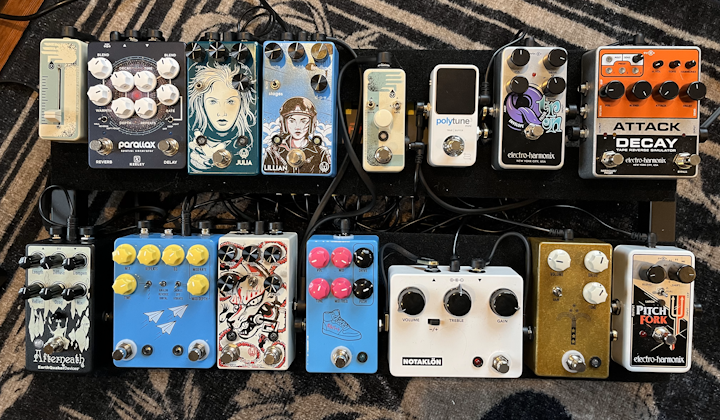
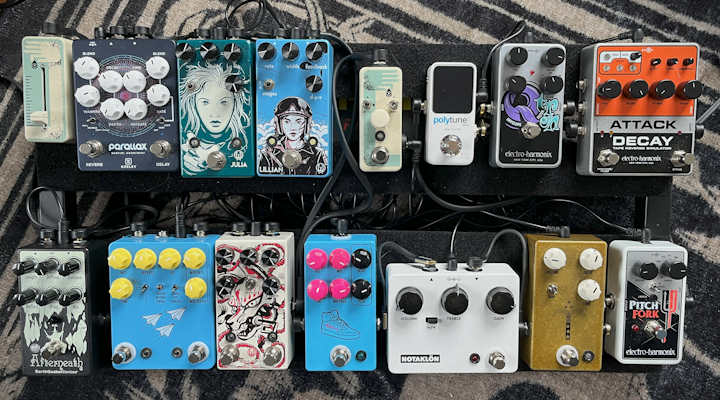
Refine pedalboard v3 article

diff --git a/_drafts/2025-01-31-Pedalboard-Version-3.md b/_drafts/2025-01-31-Pedalboard-Version-3.md
@@ -36,76 +36,78 @@ h2 {
 </style>
 [![Pedalboard version 3](/media/posts/thumbnails/pedalboard-v3.png)](/media/posts/pedalboard-v3.png)
 
-My guitar pedalboard has evolved from its [last iteration]({% post_url /2024-08-08-Pedalboard-Version-2 %}), and after many months of the same configuration I think I can safely call this "version 3." Why change it all? Well, there were two primary instigating events:
-
-- My daughter built the JHS Notaklon and I needed to find space for that on the board. It's a wider pedal, and fitting it in forced multiple spatial changes. But also adding another "dirt" pedal made me question what I already had.
-- While in Greece I acquired a bouzouki, an 8 string acoustic instrument. I wanted a way to incorporate that into my looping/recording rig, and to do that I needed a better setup for capturing instruments with a microphone, and that meant adding a microphone preamp to the board.
-
-These challenges forced me to look at how to rearrange the board, but as I did there were more opportunities to optimize and refine.
+My guitar pedalboard has continued to evolve from its [last iteration]({% post_url /2024-08-08-Pedalboard-Version-2 %}), and after many stable months of the same configuration I'm calling this "version 3." Why change it at all? Two instigating events:
 <!--more-->
+
+- My daughter built the [JHS Notaklon](https://youtu.be/LJGos1D1ha8?si=U-NcZMsDZCWp2nDp) and I needed to find space to fit it in. But also adding another "dirt" pedal made me question what I already had.
+- While in Greece I acquired a [tetrachordo bouzouki](https://en.wikipedia.org/wiki/Bouzouki), an 8 string acoustic instrument. I wanted to incorporate that into my looping/recording rig, and to do that I needed a setup for capturing instruments with a microphone.
+
+These challenges forced me to rearrange, but as I did I discovered opportunities to optimize and refine.
 
 ### Microphone as an input
 
-While mostly this is a guitar pedalboard… it's not only useful for guitars. For example I can plug a keyboard into it and add reverb or delay or any effect I like to that keyboard sound. But not every instrument has a 1/4" output. Some acoustic guitars have pickups built in and a 1/4" jack, but not all, and even still sometimes putting a microphone up to it is the best way to capture the instrument's sound. My new bouzouki certainly has no built-in hardware. I'm also experimenting with other instruments, like the trumpet. So I need a way to capture instruments via my good ole [SM57](https://reverb.com/p/shure-sm57) microphone and put them through my pedalboard. For the difference in cabling (XLR vs. 1/4") and signal compatibility I needed a microphone preamp.
+While this was built to be a guitar pedalboard… it has potential for more. For example I can plug a keyboard into it and add reverb or delay or any effect I like. But not every instrument has a 1/4" output. Some acoustic guitars have pickups built in and a 1/4" jack, but not all, and even still putting a microphone up to it is the best way to capture the instrument's sound. My new bouzouki certainly has no built-in hardware. I'm also experimenting with other instruments, like the trumpet. So I need a way to capture instruments via my good ole [SM57](https://reverb.com/p/shure-sm57) microphone and put them through the pedalboard. For the difference in cabling (XLR vs. 1/4") and [signal compatibility](https://www.sweetwater.com/insync/understanding-signal-levels-audio-gear/) I needed a microphone preamp.
 
 ### The dirt section
 
-Looking at my previous layout I had too many "dirt" pedals (overdrive/distortion): Morning Glory, Triumph, PG-14, DS-1. I wasn't finding enough distinction between these to justify that many slots. So I picked my favorite 2 (the Morning Glory and PG-14) to stay… and then added in the Notaklon. These 3 together give me a range where I do find myself using all of them. The Morning Glory is almost always on. The Notaklon gives me a great sharp lead tone (and stacks well with the Morning Glory). The PG-14 is flexible and gets used for heavier distortion and sputtery tones.
+Looking at my previous layout I had too many "dirt" pedals (overdrive/distortion): Morning Glory, Triumph, PG-14, and DS-1. I wasn't finding enough distinction between these 4 to justify so many slots. I picked my favorite 2 to stay (the Morning Glory and PG-14)… and then added in the Notaklon. These 3 together give me a range where I do find myself using all of them. The Morning Glory is the most subtle and almost always on. The Notaklon gives me a great sharp lead tone (and stacks well with the Morning Glory). The PG-14 is flexible and gets used for heavier distortion and sputtery tones.
 
 ### Looper as an output
 
-One of the most essential pedals of my board is my looper. My regular practice is all about looping layers over each other. But the looper isn't part of my sound… it's a utility that receives the output of my sound at the end of the chain. Mentally, it's different. So I had the idea to move it off the board and be its own thing.
+One of my most essential pedals is the looper, which allows me to layer my past self beneath my current self. But the looper isn't part of my sound, it's merely a utility that receives the output of my sound at the end of the chain. Mentally, it's different. So I had the idea to move it off the board and be its own thing.
 
-Enter the "baby board," a tiny [Pedaltrain Nano](https://pedaltrain.com/collections/nano/products/pt-nano-sc) (with a [power supply](https://truetone.com/cs6/) underneath). This allowed me to group some utilities at the end of the chain and create something amazingly useful. It has the looper, an EQ, and an amp sim. When months later I went to go shop for a guitar I took this board into the store and had everything I needed to test instruments with a familiar setup and headphone output.
+Enter the "baby board," a [Pedaltrain Nano](https://pedaltrain.com/collections/nano/products/pt-nano-sc) (with a [power supply](https://truetone.com/cs6/) underneath). This allowed me to group some utilities at the end of the chain. It has the looper, an EQ, and an amp sim. When months later I went to go shop for a guitar I took the baby board into the store and had everything I needed to test instruments with headhpones on a familiar setup.
 
 Did I cheat and solve my pedalboard space problem by adding a second board? Yes. But in doing so I stumbled into something I've found both more organized and more independently useful.
 
 [![The baby board](/media/posts/thumbnails/pedalboard-v3-babyboard.png)](/media/posts/pedalboard-v3-babyboard.png)
 
+Now let's go into detail on each of the pedals new to version 3.
+
 ## [Art Tube MP Studio V3](https://reverb.com/p/art-tube-mp-studio-v3-tube-microphone-preamp-2010-2023)
 <img src="/media/posts/pedalboard-v3-mpstudio.png" class="left"/>
-Without a microphone preamp if you plug a microphone into a guitar rig the levels are going to be all off. So the internet tells me. There are fancy (expensive) options for this, but I opted for something not fancy (relatively inexpensive). It works well enough, with some knobs to adjust the signal I'm getting in. This pedal actually currently lives off the main pedalboard all on its own. So I have 3 sections in the chain: **inputs** (which has this mic preamp), **sounds** (the main pedalboard), and **outputs** (the looper and utilities).
+Without a microphone preamp if you plug a microphone into a guitar rig the levels are going to be way too low. It's easy to use a microphone independently (into a mixing board or straight into a powered speaker), but my goal was to enable the live pedalboard effects for microphone input too. I opted for a reasonable used microhpone preamp. It works well enough, with some knobs to adjust the input signal. This pedal currently lives off the main pedalboard all on its own. So I have 3 sections in the chain that match my mental categorization: **inputs** (which has this mic preamp), **sounds** (the main pedalboard), and **outputs** (the looper and utilities).
 
 ## [JHS Mini A/B Switch](https://reverb.com/p/jhs-mini-a-slash-b-switch)
 <img src="/media/posts/pedalboard-v3-abswitch.png" class="right"/>
-The goal of this board is to enable me to be creative. When I have to bend down and fiddle with some cables, unplugging one and plugging another in… that's getting in the way of being creative. I want swapping the input from one instrument to another to be immediate. Enter the A/B switch. This is currently set up to toggle between the direct instrument line in and the output of the microphone preamp. So with a quick tap I can switch between the Stratocaster and the bouzouki, or between a keyboard and a trumpet.
+The goal of the board is to enable me to be creative in real time. When I have to bend down and fiddle with some cables, unplugging one and plugging another in… that gets in the way of being present. I want swapping the input from one instrument to another to be immediate. Enter the A/B switch. I have this set up to toggle between the direct instrument line in and the output of the microphone preamp. So with a quick tap I can switch between the Stratocaster and the bouzouki, or between a keyboard and a trumpet.
 
 ## [JHS NOTAKLÖN](https://reverb.com/p/jhs-notaklon)
 <img src="/media/posts/pedalboard-v3-notaklon.png" class="left"/>
-The [pitch video](https://youtu.be/LJGos1D1ha8?si=U-NcZMsDZCWp2nDp) for this absolutely stole my heart. So I was among the wave of tens of thousands who immediately ordered the kit. I put it in front of my tween daughter, and she built me a guitar pedal. Which is magic.
+The [pitch video](https://youtu.be/LJGos1D1ha8?si=U-NcZMsDZCWp2nDp) for this DIY kit absolutely stole my heart. So I was among the initial wave of tens of thousands who flooded orders. I put it in front of my tween daughter, and she built me a guitar pedal. Which was a magic experience and I will always treasure this pedal.
 
-Do I like the sound of the pedal? Absolutely I do. The Notaklon gives me a nice dirty overdrive that cuts through with a warm crunchy sound. It stacks nicely with the Morning Glory if I want something even dirtier.
+Do I like the sound of the pedal? Absolutely I do. The Notaklon gives me a nice dirty overdrive that cuts through with a warm crunch. It stacks nicely with the Morning Glory if I want something even dirtier.
 
 ## [Stymon Iridium](https://reverb.com/p/strymon-iridium)
 <img src="/media/posts/pedalboard-v3-iridium.png" class="right"/>
-I'd had my eye on the Iridium for a while, waiting for the right price on [reverb](https://reverb.com). This pedal is an "amp sim," which is to say it emulates the sonic qualities of various amps in one tiny box. You can get the behavior you want (Fender, Vox, Marshal, or otherwise) at the volume you want and in a travel friendly format. This lives alongside my looper on the "baby board," as it's part of my output section.
+I'd had my eye on the Iridium for a while, waiting for the right price on [reverb](https://reverb.com/p/strymon-iridium). This pedal is an "amp sim," which is to say it emulates the sonic qualities of various amps in one tiny box. You can get the response you want (Fender, Vox, Marshal, or otherwise) at the volume you want and in a travel friendly format. This lives alongside my looper on the "baby board," as it's part of my output section.
 
-I'm underutilizing it. The main speaker I have in my practice space is an amp (a [Vox Mini Superbeetle](https://reverb.com/p/vox-msb25-mini-superbeetle-25-watt-1x10-mini-guitar-amp-stack)). And running an amp sim into an amp is… double dipping. I need a more neutral output for this to do the right thing, and I haven't set that up yet. However when I use this straight into my recording rig, or use it with headphones, it does what I need.
+I feel like I'm underutilizing it. The main speaker I have in my practice space is an amp (a [Vox Mini Superbeetle](https://reverb.com/p/vox-msb25-mini-superbeetle-25-watt-1x10-mini-guitar-amp-stack)), and running an amp sim into an amp is sonic double dipping. I'd rather pair with a more neutral output, but my practice space hasn't otherwise warranted a PA system or monitors. However when I use the Iridium straight into my recording mixer or use it with headphones, everything's great.
 
 ## [Boss FS-7 Footswitch](https://reverb.com/p/boss-fs-7-footswitch)
 <img src="/media/posts/pedalboard-v3-footswitch.png" class="left"/>
-My 2 button rhythm looper is one of my most essential pieces of gear. It's so essential that there some common functions that I use that could benefit from their own button. Thankfully it can be extended and customized with an external foot switch. So what do I use these 2 extra buttons for:
-- **Tap tempo**: I can change the BPM of any of the tracks with the dial on the main looper. Which is precise but fiddly and hard to "feel." But with this footswitch I can mash the button to the beat I want and get it much faster and without bending over.
+My 2 button rhythm looper is so heavily used by me that I've felt some common functions could benefit from a dedicated button. Thankfully it can be extended and customized with an external foot switch. I use these 2 extra buttons for:
+- **Tap tempo**: I can change the BPM with the main dial on the looper, which is precise but fiddly. With this footswitch I can mash the added button to get the time set fast and without bending over.
 - **Undo/Redo**: Technically I can do a long press on one of the existing buttons to undo the last layer I recorded. But this is a common enough action that I prefer having its own button.
 
 ## [JHS Flight Delay](https://reverb.com/p/jhs-flight-delay)
 <img src="/media/posts/pedalboard-v3-flightdelay.png" class="right"/>
-JHS made a [great video](https://www.youtube.com/watch?v=Pm3TzgxwAFU) to launch this pedal in late 2024. And while I had delay effects through my Parallax, there were some quality of life improvements I was seeking. Tap tempo is the most important one, as I have discovered that getting a delay timing dialed in with a knob is not fun. Tapping in that in with a foot switch is much more immediate and more accurate for my usage, plus there's a knob to choose various subdivisions. In fact a lot of what drew me to this pedal was the user interface; the way the functions are divided up between the switches and knobs is incredibly intuitive. Mostly the only thing this pedal gave me I didn't have was tap tempo and reverse delay, but the way it's packaged together has me feeling more in control of my delay effects.
+JHS made a [great video](https://www.youtube.com/watch?v=Pm3TzgxwAFU) to launch this pedal in late 2024. I've had delay effects through my Parallax, but there were some quality of life improvements I was seeking. Tap tempo is the most important one, as I have discovered that getting a delay timing dialed in with a knob is not fun. Tapping in with a foot switch is much more immediate and more accurate for my usage, plus there's a knob to choose standard subdivisions. In fact a lot of what drew me to this pedal was the user interface; the way the functions are divided up between the switches and knobs is intuitive. Mostly the only thing this pedal gave me I didn't have was tap tempo and reverse delay, but the way it's packaged together has me feeling more in control.
 
 ## [Earthquaker Devices Afterneath](https://reverb.com/p/earthquaker-devices-afterneath-otherworldly-reverberation-machine-v3)
 <img src="/media/posts/pedalboard-v3-afterneath.png" class="left"/>
-I didn't need this pedal. I wanted this pedal. It has a wizard on it and an awesome name. And with it you can create cavernous ambient echoes. It sits somewhere between reverb and delay; its effect is accomplished with delay, but it feels more like a reverb in creating a feeling of physical space. It's the sort of pedal that inspires me to play differently. 
+I didn't need this pedal. I wanted this pedal. It has a wizard on it and an awesome name. And with it I can create cavernous ambient echoes. The pedal sits somewhere between reverb and delay; its effect is accomplished with delay, but it feels more like a reverb in creating a feeling of physical space. It's the sort of pedal that inspires me to play differently. It also has an expression input that affects the key space of the echoes; that one is fun and inspired an additional purchase below.
 
 ## [Walrus Audio Monument](https://reverb.com/p/walrus-audio-monument-harmonic-tap-tremolo-v2)
 <img src="/media/posts/pedalboard-v3-monument.png" class="right"/>
-I was never dissatisfied with the mini JHS Tidewater on my board providing tremolo. But over time I realized that I _really_ like tremolo. It's one of my most used effects. And if I was going to upgrade to something with a bit more control, my tremolo pedal would be a great candidate.
+I was never dissatisfied with the JHS Tidewater tremolo on my board. But I've realized I _really_ like tremolo, and if I was going to upgrade to something with a bit more control, my tremolo pedal would be a great candidate.
 
-What the Monument gives me more than anything is tap tempo. Quickly while I'm playing I can mash in the rate I want for my tremolo and match it to what I'm playing. With a twist of a knob I can adjust the subdivisions. I'm also able to adjust the waveform from triangle to a more choppy square wave. Those are the options I didn't have before that elevates this pedal above what I had.
+What the Monument gives me more than anything is tap tempo. Quickly while I'm playing I can mash in the rate I want for my tremolo and match it to what I'm playing. With a twist of a knob I can choose the subdivisions. I'm also able to adjust the waveform from triangle to a more choppy square wave, or choose harmonic tremolo. It's a solid upgrade.
 
-Then there's the art. Walrus generally has awesome art on their pedals, and they also do limited runs of alternate art. This is not the standard art, but the "Kamakura" series. It certainly caught my eye, and I prefer it over the standard art howling wolf. Although if I'm honest, it's not the look I associate with the _feel_ of tremolo. Cool, but not perfect.
+Walrus generally has awesome art on their pedals, and they also do limited runs of alternates. This is not the standard art for the Monument, but the "Kamakura" series. It certainly caught my eye, and I prefer it over the standard [howling wolf](https://www.walrusaudio.com/products/monument-harmonic-tap-tremolo-v2?variant=13647185051694). Although if I'm honest, it's not the look I associate with the _feel_ of tremolo. It's very cool, but not perfect.
 
 ## [OBNE Expression Ramper](https://reverb.com/p/old-blood-noise-endeavors-expression-ramper-v1)
 <img src="/media/posts/pedalboard-v3-expression.png" class="left"/>
-Between the Monument, Afterneath, and Flight Delay… I had added some pedals with "expression" input options. Previously the only pedals I had that supported this were the Pitch Fork and the Attack Decay. With a stereo cable it's possible to use my volume pedal as an expression pedal… but I kind of like having it available as a volume pedal. So I wanted to get a dedicated expression pedal. It wasn't a top priority, but when the right deal popped up on reverb…
+Between the Monument, Afterneath, and Flight Delay… I had added several pedals with "expression" input options. Previously the only pedals I had with expression options were the Pitch Fork and the Attack Decay. With a stereo splitter cable it's possible to use my volume pedal as an expression pedal… but then it ceases to be a volume pedal. So I wanted a dedicated expression pedal. Not a top priority, but when the right deal popped up on reverb…
 
-I ended up getting 2 things. One is a [slider](https://oldbloodnoise.com/pedals/p/expression-slider-hk), which is less for your foot and more for your hand. But the user interface developer in me finds it charming. The other is this expression "ramper," which allows me to program in a start and stop point, a speed, a curve, and kick the whole thing off with a press of a switch (or put on loop). It's a creative tool in my kit that I don't use often but is pretty fun.
+I ended up getting 2 things. One is a [slider](https://oldbloodnoise.com/pedals/p/expression-slider-hk), which is less for your foot and more for your hand, but the user interface nerd in me finds it charming. The other is this expression "ramper," which allows me to program the start/stop values, speed, shape, and kick the whole thing off with a press of a switch (or put on loop). It's a creative tool in my kit that I don't use frequently but is pretty fun. I have the slider connected to the Afterneath (controlling the drag) and the ramper connected to the Monument (controlling the rate)
